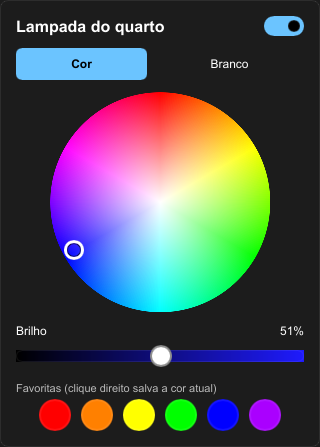
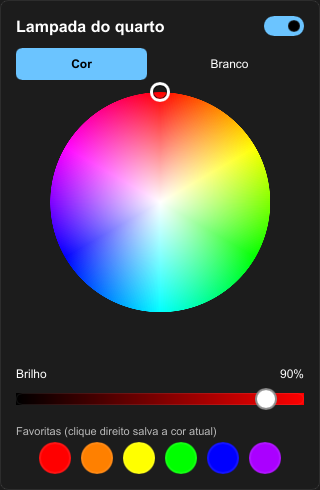
README para quem usa o app (#43)
O que ele faz, instalação (zip no Windows, AUR no Arch), configuração
inicial por QR com a dica do app Elgin, atalhos, solução de problemas
(2,4 GHz, sub-rede, firewall, chave recusada, log) e privacidade (o que
fica no config.toml e o que vai para a nuvem e para o GitHub). A parte de
desenvolvimento ficou no fim. Captura do painel atualizada.

Claude-Session: https://claude.ai/code/session_01HmSUjWZDQRKAyEEx5H3VTR

diff --git a/README.md b/README.md
@@ -3,44 +3,136 @@
 [![CI](https://github.com/BrunoNC22/elgin-tray/actions/workflows/ci.yml/badge.svg)](https://github.com/BrunoNC22/elgin-tray/actions/workflows/ci.yml)
 
 Controle a sua lâmpada **Elgin Smart Color** (Tuya, Wi‑Fi) pela bandeja do sistema, no **Windows** e no
-**Linux (KDE Plasma)**, sem o app de celular e sem passar pela nuvem no dia a dia.
+**Linux (KDE Plasma)**, sem abrir o app do celular e sem passar pela nuvem no dia a dia.
 
-> 🚧 **Em desenvolvimento.** Ainda não há código funcional. Acompanhe o progresso no
-> [Roadmap](https://github.com/BrunoNC22/elgin-tray/issues/45) e no
-> [milestone v1.0](https://github.com/BrunoNC22/elgin-tray/milestone/1).
+<p align="center">
+  <img src="docs/images/panel.png" alt="Painel com o disco de cores, o brilho e as favoritas" width="320">
+</p>
 
-## Recursos planejados (v1.0)
+> A primeira versão (v1.0) está em desenvolvimento: acompanhe o
+> [Roadmap](https://github.com/BrunoNC22/elgin-tray/issues/45).
 
-- Ícone na bandeja (área de ícones ocultos) que mostra o estado da lâmpada: ligada (na cor atual), desligada
-  ou offline.
-- Clique no ícone abre um painel com switch liga/desliga, disco de cores (como no Smart Life), modo branco
-  com temperatura quente ↔ frio, slider de brilho e cores favoritas.
-- Menu no clique direito, rolagem do mouse sobre o ícone para ajustar o brilho (KDE) e atalhos globais de
-  teclado.
-- Lê o estado atual da lâmpada ao iniciar e acompanha mudanças feitas por outros apps.
-- Inicia junto com o sistema.
-- Configuração inicial dentro do app, lendo um QR code com o app Smart Life.
-- Controle 100% local (protocolo Tuya 3.5 na LAN): rápido e funcionando mesmo sem internet.
-- Atualização automática no Windows; no Arch Linux, pacote AUR `elgin-tray-bin`.
-- Binário nativo em Rust, leve e com baixo consumo de memória.
+## O que ele faz
 
-## Requisitos
+- **Ícone na bandeja** com o estado da lâmpada: preenchido na cor atual (ligada), só o contorno
+  (desligada) ou cinza com um aviso (sem conexão, chave recusada, não configurada).
+- **Clique** no ícone abre o painel: liga/desliga, aba **Cor** (disco de cores como no Smart Life),
+  aba **Branco** (temperatura quente ↔ fria), brilho de 1% a 100% e **6 cores favoritas** (clique
+  aplica; clique direito salva a cor atual).
+- **Clique do meio** liga/desliga; **clique direito** abre o menu (favoritas, iniciar com o sistema,
+  atualizações, reconfigurar, sair). No KDE, **rolar o mouse** sobre o ícone ajusta o brilho.
+- **Atalhos globais** de teclado (configuráveis).
+- Lê o estado da lâmpada ao iniciar e acompanha as mudanças feitas por outros apps.
+- **Controle 100% local** (protocolo Tuya 3.5 na rede de casa): rápido e funciona sem internet.
+- Inicia com o sistema e fica leve na memória.
+- **Atualiza sozinho** no Windows (pacotes assinados); no Arch, pelo AUR.
 
-- Lâmpada Elgin Smart (ou outra lâmpada Tuya/Smart Life) conectada ao Wi‑Fi 2,4 GHz, na mesma rede do PC.
-- A lâmpada precisa estar no app **Smart Life** (o app Elgin Smart não serve para a configuração inicial).
-  Para mover a lâmpada para o Smart Life, **remova-a primeiro no app Elgin Smart** e depois pareie no
-  Smart Life; sem isso, o Smart Life falha com "não foi possível conectar ao Wi‑Fi".
-- Windows 10/11 ou Linux com KDE Plasma 6 (Wayland ou X11).
+## Instalação
 
-## Compilando
+**Windows 10/11:** baixe `elgin-tray-vX.Y.Z-windows-x86_64.zip` na
+[última release](https://github.com/BrunoNC22/elgin-tray/releases/latest), extraia o `elgin-tray.exe`
+para uma pasta sua (por exemplo `%LOCALAPPDATA%\elgin-tray\`) e rode uma vez. Não precisa de
+administrador. A partir daí ele inicia com o Windows e se atualiza sozinho.
+
+**Arch Linux (KDE Plasma 6, Wayland ou X11):**
 
 ```sh
-cargo build --release
+yay -S elgin-tray-bin
 ```
 
-## Usando pelo terminal (desenvolvimento)
+O app avisa quando sai uma versão nova; atualize com `yay -Syu`.
 
-Enquanto a bandeja não está pronta, a lâmpada pode ser controlada pelo terminal com `elgin-tray ctl`:
+## Configuração inicial
+
+Na primeira vez o painel abre sozinho na tela **Configurar lâmpada**:
+
+<p align="center">
+  <img src="docs/images/setup-qr.png" alt="Tela do QR code" width="260">
+  <img src="docs/images/setup-choose.png" alt="Escolha da lâmpada" width="260">
+</p>
+
+1. Digite o **código de usuário** do Smart Life (no app: **Eu → engrenagem → Conta e segurança →
+   Código de usuário**).
+2. No Smart Life, toque no ícone de leitura (canto superior direito da tela inicial), **leia o QR
+   code** do painel e confirme o login no celular.
+3. Escolha a lâmpada. Pronto: o app guarda o que precisa e passa a falar direto com a lâmpada pela rede.
+
+A lâmpada precisa estar no app **Smart Life** (o app Elgin Smart não serve para isso). Para movê-la,
+**remova-a primeiro no app Elgin Smart** (editar → "Remover dispositivo") e depois pareie no Smart
+Life. Sem isso o Smart Life falha com "não foi possível conectar ao Wi‑Fi", mesmo com a senha certa.
+
+Para trocar de lâmpada ou refazer o login: menu do ícone → **Reconfigurar lâmpada**.
+
+## Atalhos globais
+
+Os padrões são:
+
+| Atalho | Ação |
+|---|---|
+| `Ctrl+Alt+L` | liga/desliga |
+| `Ctrl+Alt+Up` / `Ctrl+Alt+Down` | brilho +10% / −10% |
+| `Ctrl+Alt+Right` | próxima cor favorita |
+
+Para trocar, edite a seção `[hotkeys]` do `config.toml` (veja onde ele fica em
+[Privacidade](#privacidade)) e reinicie o app:
+
+```toml
+[hotkeys]
+toggle = "Ctrl+Alt+L"
+brightness_up = "Ctrl+Alt+Up"
+brightness_down = "Ctrl+Alt+Down"
+next_favorite = "Ctrl+Alt+Right"
+```
+
+Cada atalho é uma ou mais modificadoras (`Ctrl`, `Alt`, `Shift`, `Win`) e uma tecla: `A`–`Z`,
+`0`–`9`, `F1`–`F24`, `Up`, `Down`, `Left`, `Right`, `Space`, `Enter`, `Tab`, `Home`, `End`,
+`PageUp`, `PageDown`, `Insert`, `Delete`. Deixe vazio (`""`) para desligar um atalho. Se um atalho
+for inválido ou já estiver em uso por outro programa, o app avisa e os outros continuam funcionando.
+
+## Solução de problemas
+
+**A lâmpada aparece como "não está respondendo na rede".**
+- A lâmpada só usa Wi‑Fi de **2,4 GHz** e precisa estar na **mesma rede (sub‑rede)** do PC. Redes de
+  visitantes e "isolamento de clientes" no roteador bloqueiam a comunicação.
+- Confira se ela está ligada no interruptor da parede e se aparece online no Smart Life.
+- Se o IP da lâmpada mudou, o app procura de novo sozinho. No **Windows**, essa procura precisa que
+  o `elgin-tray.exe` esteja liberado no **Firewall** (redes privadas): se o aviso do Windows foi
+  negado, libere em *Segurança do Windows → Firewall → Permitir um aplicativo pelo firewall*.
+
+**"A lâmpada recusou a chave."** Acontece quando a lâmpada é pareada de novo (a chave dela muda). O
+app tenta buscar a chave nova sozinho pelo login salvo; se não conseguir, use **Reconfigurar
+lâmpada** no menu.
+
+**Os atalhos não funcionam.** Outro programa pode estar usando a mesma combinação (o app avisa ao
+iniciar). Troque no `config.toml`.
+
+**Onde fica o log?** `%LOCALAPPDATA%\elgin-tray\logs\elgin-tray.log` (Windows) ou
+`~/.local/state/elgin-tray/elgin-tray.log` (Linux). O log nunca contém a chave nem o login.
+
+## Privacidade
+
+- **No dia a dia nada sai da sua rede**: o app conversa direto com a lâmpada (TCP 6668, criptografado
+  com a chave local dela).
+- **Nuvem da Tuya (Smart Life)** só é usada na configuração inicial e para buscar a chave nova se a
+  lâmpada for pareada de novo: login por QR code, lista de dispositivos da sua conta e a chave local
+  da lâmpada escolhida.
+- **GitHub**: o app consulta a última versão publicada ao iniciar e a cada hora.
+- O que fica guardado, no `config.toml` (`%APPDATA%\elgin-tray\` no Windows,
+  `~/.config/elgin-tray/` no Linux, com permissão só para o seu usuário): ID, nome, chave local e IP
+  da lâmpada, a sessão de login da nuvem, as favoritas, os atalhos e a opção de iniciar com o sistema.
+  **Não compartilhe esse arquivo.**
+
+## Desenvolvimento
+
+O projeto é um workspace Rust com arquitetura hexagonal; veja [CLAUDE.md](CLAUDE.md) (decisões e
+como trabalhar) e [docs/architecture.md](docs/architecture.md).
+
+```sh
+cargo build --release        # o executável fica em target/release/
+cargo test --workspace
+```
+
+Para controlar a lâmpada pelo terminal (útil para testar o protocolo), há o `elgin-tray ctl`:
 
 ```sh
 elgin-tray ctl status                 # mostra o estado
@@ -50,38 +142,9 @@ elgin-tray ctl white 50 0             # brilho 1-100%, temperatura 0 (quente) a 
 elgin-tray ctl brightness 25          # brilho do modo atual
 elgin-tray ctl discover               # procura a lâmpada na rede e salva o IP
 elgin-tray ctl watch                  # mostra as mudanças até Ctrl+C
+elgin-tray ctl login <código>         # login por QR code no Smart Life
+elgin-tray ctl devices                # lista os dispositivos da conta
 ```
 
-Ela lê a configuração de `%APPDATA%\elgin-tray\config.toml` (Windows) ou
-`~/.config/elgin-tray/config.toml` (Linux). Para usar outro arquivo, defina a variável
-`ELGIN_TRAY_CONFIG`. Enquanto a configuração pelo QR code não existe, preencha o arquivo à mão
-(o ID e a local key podem ser obtidos com o [tuya-local-key](https://github.com/vineetchoudhary/tuya-local-key)):
-
-```toml
-[[bulbs]]
-id = "o Device ID da lâmpada"
-name = "Lâmpada do quarto"
-local_key = "a local key (16 caracteres)"
-```
-
-O IP e a versão do protocolo são descobertos sozinhos e gravados no arquivo. A descoberta precisa
-**receber** pacotes UDP da lâmpada: no Windows, permita o `elgin-tray.exe` no firewall quando o aviso
-aparecer (redes privadas). Sem isso, preencha `ip` e `protocol_version = "3.5"` à mão.
-
-## Atalhos globais
-
-Os atalhos ficam no `config.toml` (os valores abaixo são os padrões):
-
-```toml
-[hotkeys]
-toggle = "Ctrl+Alt+L"           # liga/desliga
-brightness_up = "Ctrl+Alt+Up"   # brilho +10%
-brightness_down = "Ctrl+Alt+Down"
-next_favorite = "Ctrl+Alt+Right"
-```
-
-Cada atalho é uma ou mais modificadoras (`Ctrl`, `Alt`, `Shift`, `Win`) e uma tecla: `A`–`Z`,
-`0`–`9`, `F1`–`F24`, `Up`, `Down`, `Left`, `Right`, `Space`, `Enter`, `Tab`, `Home`, `End`,
-`PageUp`, `PageDown`, `Insert`, `Delete`. Deixe vazio (`""`) para desligar um atalho. Atalhos
-inválidos ou já usados por outro programa ficam de fora (o motivo vai para o log) e os outros
-continuam funcionando. As mudanças valem ao reiniciar o app.
+`ELGIN_TRAY_CONFIG` aponta para outro `config.toml` (útil para testar sem mexer no seu). Como
+publicar uma versão: [docs/releasing.md](docs/releasing.md).
